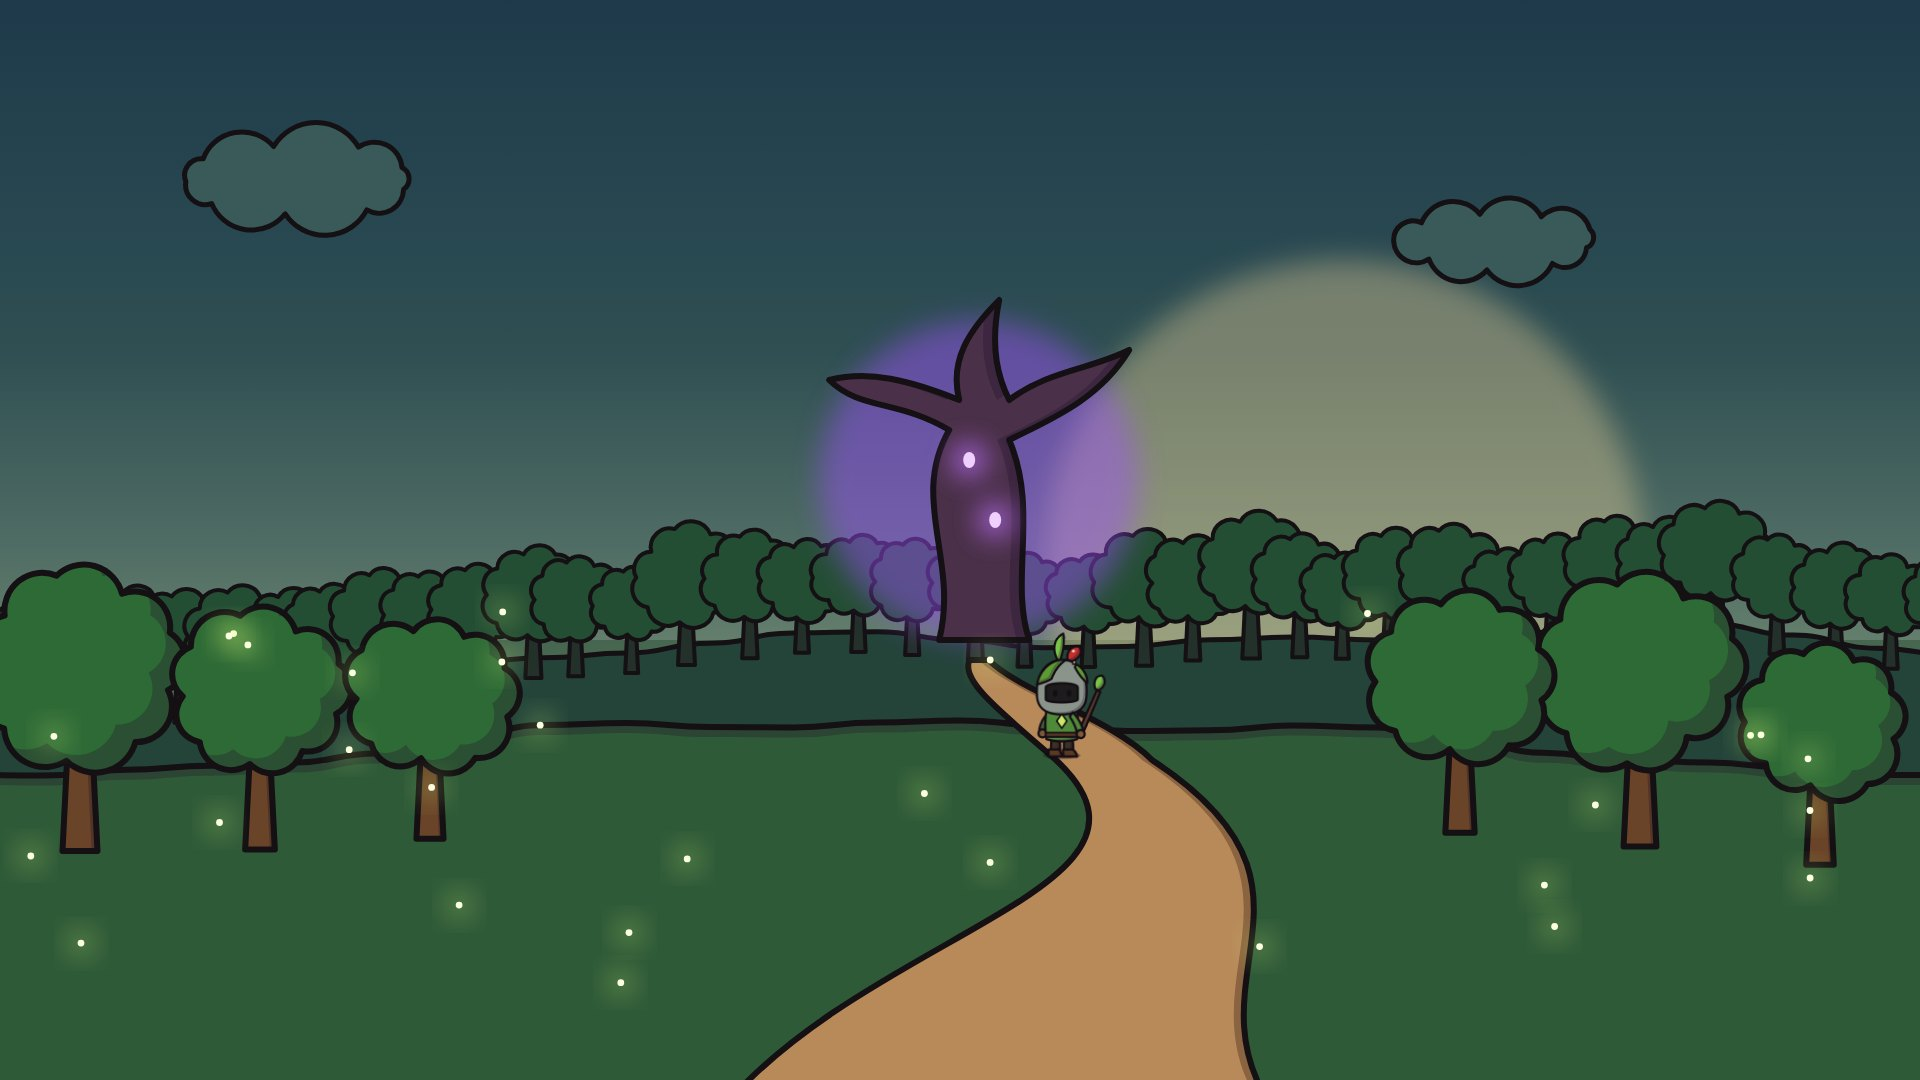
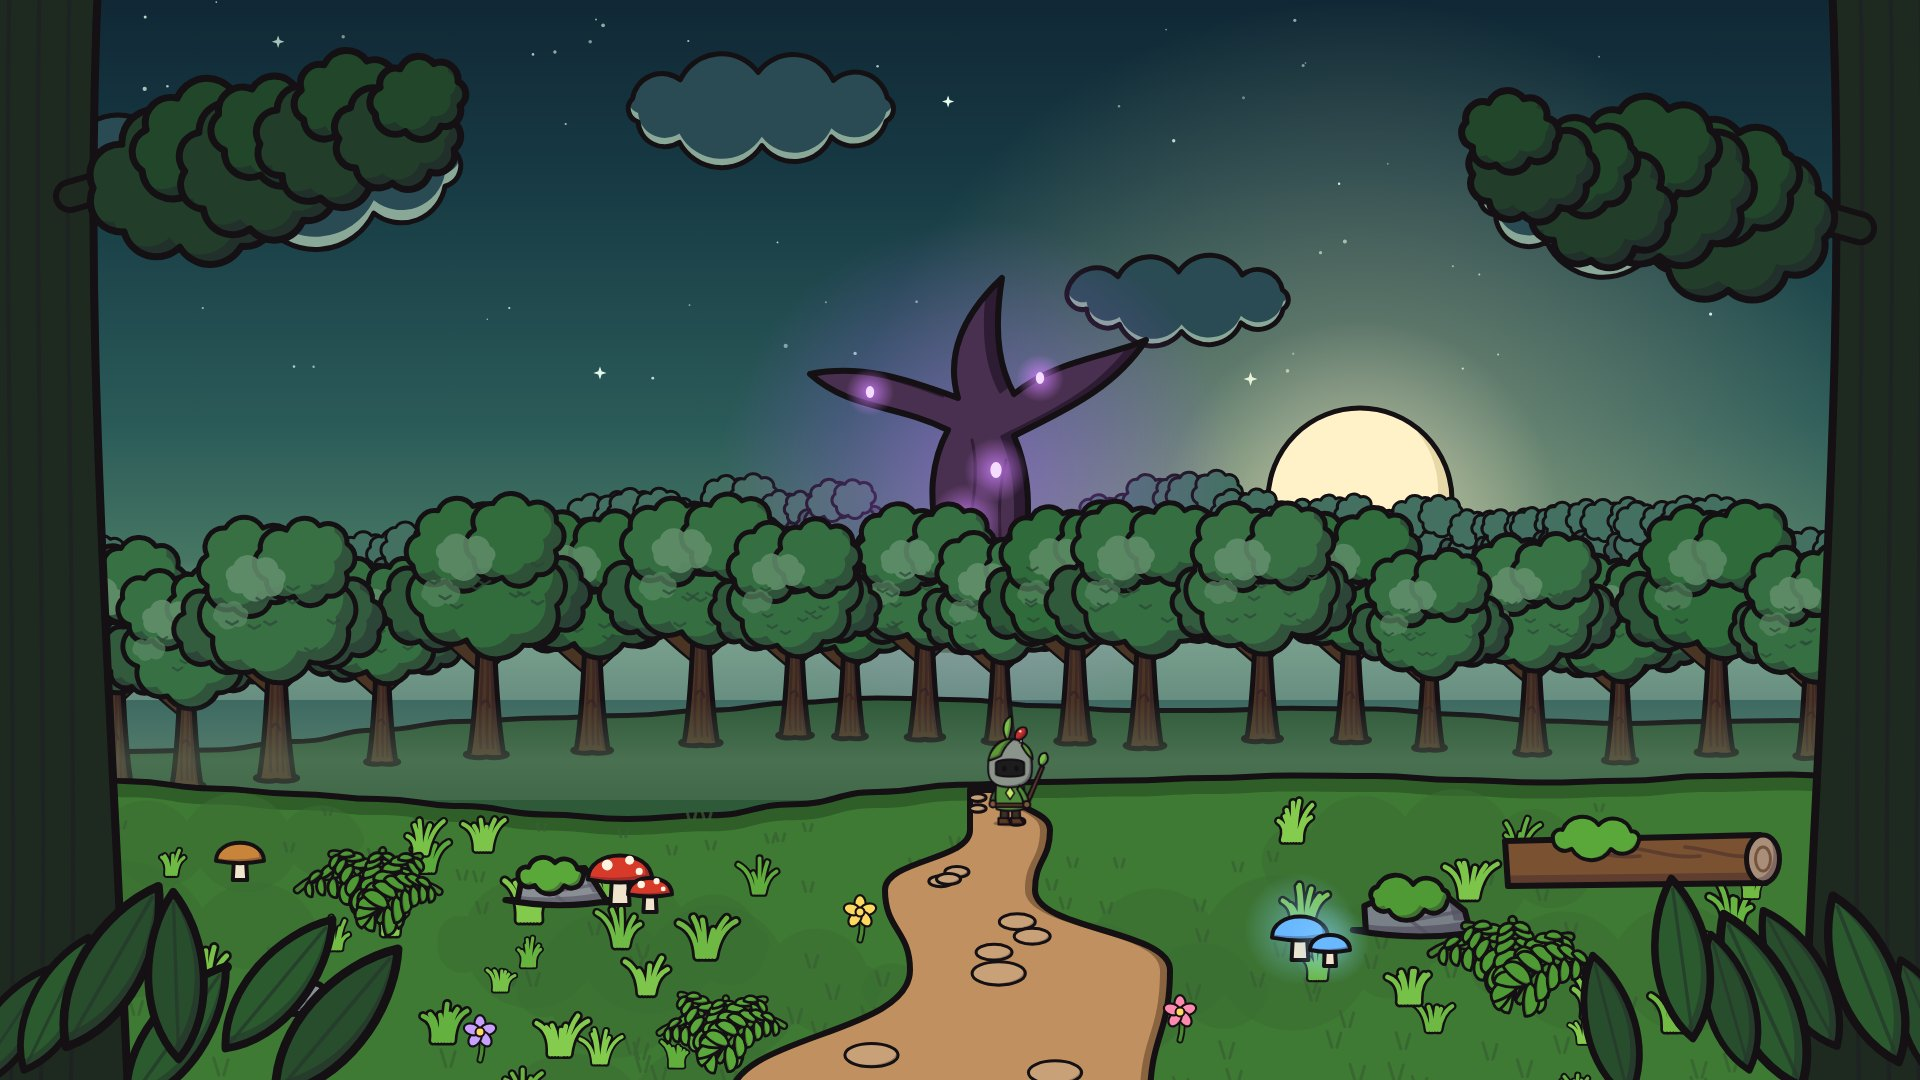
Streakly screenshots section; forest art with the corrupted tree behind the treeline

diff --git a/index.html b/index.html
@@ -70,7 +70,7 @@
 <span class="hide" style="color:#5A5C63;font-size:17px;line-height:1.5">A habit tracker built on streaks, with your own habits, daily check‑ins and clear stats.</span>
 <span class="hide" style="font-family:'IBM Plex Mono',monospace;font-size:12px;color:#2B55E6">GOOGLE PLAY</span>
 <span class="go" aria-hidden="true" style="width:52px;height:52px;border-radius:50%;border:1.5px solid #15161A;display:flex;align-items:center;justify-content:center;font-size:20px">→</span>
-<img class="peek" src="assets/img/streakly-icon.png" alt="" aria-hidden="true" style="position:absolute;right:120px;top:50%;width:150px;border-radius:32px;background:#FFFFFF;box-shadow:0 20px 40px -12px rgba(21,22,26,.35)">
+<img class="peek" src="assets/img/streakly-home.jpg" alt="" aria-hidden="true" style="position:absolute;right:120px;top:50%;width:150px;border-radius:18px;box-shadow:0 20px 40px -12px rgba(21,22,26,.35)">
 </a>
 <a class="prow" href="#contact" style="display:grid;grid-template-columns:60px minmax(0,1.2fr) minmax(0,2fr) 140px 56px;align-items:center;gap:24px;padding:34px 0;border-bottom:1px solid #D9D4C7">
 <span style="font-family:'IBM Plex Mono',monospace;color:#5A5C63">03</span>
@@ -88,6 +88,23 @@
 <span class="go" aria-hidden="true" style="width:52px;height:52px;border-radius:50%;border:1.5px solid #15161A;display:flex;align-items:center;justify-content:center;font-size:20px">→</span>
 <img class="peek" src="assets/img/mosswarden-hero.png" alt="" aria-hidden="true" style="position:absolute;right:120px;top:50%;width:120px">
 </a>
+</div>
+</section>
+
+<section id="streakly" style="max-width:1320px;margin:0 auto;padding:110px 40px 20px;display:flex;flex-wrap:wrap;gap:56px;align-items:center">
+<div style="flex:1 1 340px;min-width:0;max-width:440px">
+<div style="display:flex;align-items:center;gap:14px;margin-bottom:20px"><img src="assets/img/streakly-icon.png" alt="" aria-hidden="true" style="width:52px;height:52px;border-radius:14px;background:#FFFFFF"><span style="font-family:'IBM Plex Mono',monospace;font-size:13px;letter-spacing:.08em;color:#5A5C63">STREAKLY · HABIT TRACKER</span></div>
+<h2 style="margin:0 0 20px;font-family:'Instrument Serif',serif;font-weight:400;font-size:clamp(44px,5vw,76px);line-height:1;letter-spacing:-.02em">Keep the streak <em style="color:#2B55E6">going.</em></h2>
+<p style="margin:0 0 28px;font-size:18px;line-height:1.6;color:#5A5C63">Add a habit, choose how often (daily, weekly, monthly, on chosen days or every few days) and tick it off. Weekly and monthly stats show how you are doing, and you can pick your own colour.</p>
+<a class="ul" href="https://play.google.com/store/apps/details?id=com.onsk.streakly" style="font-weight:700;font-size:18px">Get Streakly on Google Play →</a>
+</div>
+<div style="flex:2 1 560px;min-width:0;overflow-x:auto;padding:30px 4px 40px">
+<div class="shots">
+<img class="shot" src="assets/img/streakly-home.jpg" alt="Streakly home screen with today's habits" style="width:164px;flex:0 0 auto;border-radius:20px;border:5px solid #15161A">
+<img class="shot" src="assets/img/streakly-new-task.jpg" alt="Streakly new task screen with weekly schedule" style="width:164px;flex:0 0 auto;border-radius:20px;border:5px solid #15161A;margin-top:56px">
+<img class="shot" src="assets/img/streakly-stats.jpg" alt="Streakly weekly statistics" style="width:164px;flex:0 0 auto;border-radius:20px;border:5px solid #15161A">
+<img class="shot" src="assets/img/streakly-settings.jpg" alt="Streakly settings with colour palette" style="width:164px;flex:0 0 auto;border-radius:20px;border:5px solid #15161A;margin-top:56px">
+</div>
 </div>
 </section>
 

diff --git a/assets/css/site.css b/assets/css/site.css
@@ -115,6 +115,9 @@ a{color:#15161A;text-decoration:none}a:hover{color:#2B55E6}
 .fan img{transition:transform .6s cubic-bezier(.2,.7,.2,1)}
 .fan:hover .f1{transform:translateX(-120px) rotate(-10deg)}
 .fan:hover .f3{transform:translateX(120px) rotate(10deg)}
+.shots{display:flex;gap:18px;align-items:flex-start}
+.shot{transition:transform .5s cubic-bezier(.2,.7,.2,1),box-shadow .5s}
+.shot:hover{transform:translateY(-14px) rotate(-1.5deg);box-shadow:0 34px 60px -24px rgba(21,22,26,.5)}
 .fig img{transition:transform 1.2s cubic-bezier(.2,.7,.2,1)}
 .fig:hover img{transform:scale(1.03)}
 @media (max-width:760px){.prow{grid-template-columns:36px minmax(0,1fr) 52px !important;gap:14px !important}.prow .hide{display:none}.prow .peek{display:none}}
